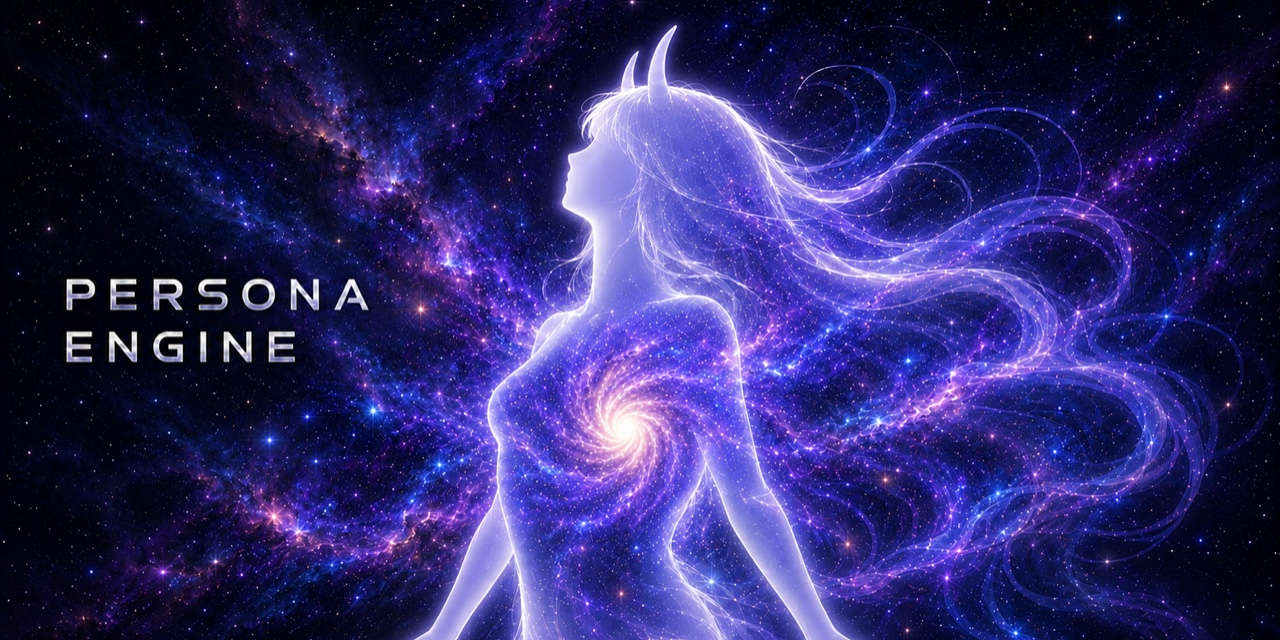
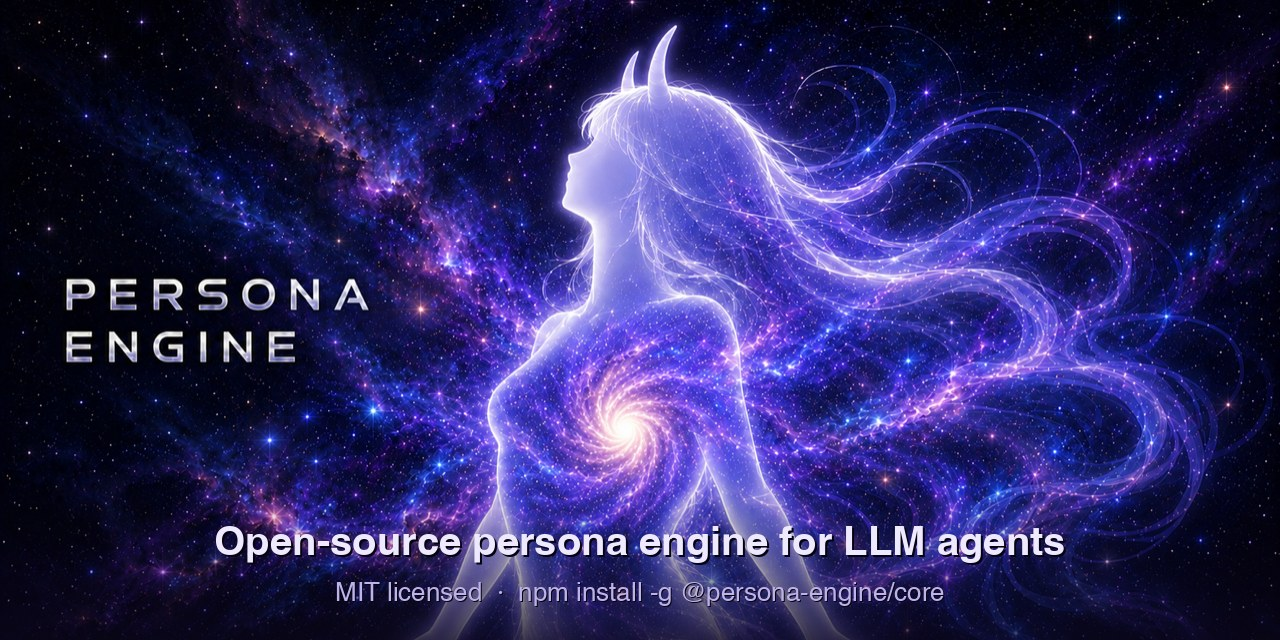
docs: add CLI demo GIF, OSS tagline on social preview, and README polish
- docs/assets/demo.gif: VHS-recorded terminal demo in the brand theme
  (list -> turn resolution -> alias switch -> fail-closed -> audit),
  embedded at the top of Getting started in all four languages
- social-preview.jpg: bake 'Open-source persona engine for LLM agents /
  MIT licensed - npm install' onto the card so link previews read as OSS
  at a glance
- Center the hero image and badge row
- 'Never rewrites the persona' principle promoted to a [!IMPORTANT] alert
- FAQ entries folded into <details> blocks (10 per language)

Changed region(s): [[0.0938, 0.7812, 0.9688, 1.0], [0.0625, 0.9375, 0.0938, 1.0]]

diff --git a/README.md b/README.md
@@ -4,12 +4,13 @@
 
 > English is the canonical version of this document. Translations follow it and may lag slightly behind.
 
-![npm](https://img.shields.io/npm/v/%40persona-engine%2Fcore)
-![CI](https://github.com/caty-ai/persona-engine/actions/workflows/ci.yml/badge.svg)
-![node](https://img.shields.io/badge/node-%3E%3D22-brightgreen)
-![license](https://img.shields.io/badge/license-MIT-blue)
+<div align="center">
 
 ![persona-engine — give your AI agent a face for every moment](docs/assets/hero.jpg)
+
+![npm](https://img.shields.io/npm/v/%40persona-engine%2Fcore) ![CI](https://github.com/caty-ai/persona-engine/actions/workflows/ci.yml/badge.svg) ![node](https://img.shields.io/badge/node-%3E%3D22-brightgreen) ![license](https://img.shields.io/badge/license-MIT-blue)
+
+</div>
 
 persona-engine gives an AI agent a different face for each situation. A reliable-partner face while you work, a close-friend face in casual chat, a character face on stream — **the original personality stays untouched**; only the emotional range and situational reactions are added, safely.
 
@@ -30,7 +31,8 @@ How to add a mode, and the rules for writing vocabulary catalogs, are collected 
 
 ## What we hold most important — the persona is never rewritten
 
-persona-engine is not a tool for building a personality from scratch. It exists to **respect the agent that is already there, and layer emotion on top**.
+> [!IMPORTANT]
+> persona-engine is not a tool for building a personality from scratch. It exists to **respect the agent that is already there, and layer emotion on top**.
 
 - The agent's own persona definition — name, character, default way of speaking — is never touched.
 - A mode adds only a **difference**: how this face reacts when focused, the vocabulary of a casual moment, how much the voice brightens.
@@ -48,6 +50,8 @@ We believe AI can carry expression the way people do. The more an agent becomes 
 But the moment you give an agent this range, new worries appear. What if the casual voice shows up in public? What if nobody can tell who switched it, or when? persona-engine exists to hold both — the range and the safety — at once. The detailed comparison is in [Why persona-engine? (the technical case)](#why-persona-engine-the-technical-case).
 
 ## Getting started
+
+![demo: one agent, four faces — resolving a turn, switching by utterance, fail-closed public mode, and the audit trail](docs/assets/demo.gif)
 
 All you need is [Node.js](https://nodejs.org/) (version 22 or later). Run these four lines in a terminal:
 
@@ -309,35 +313,75 @@ See [SECURITY.md](SECURITY.md) for the threat model and how to report vulnerabil
 
 ## FAQ
 
-**Will it rewrite my agent's original personality?**
+<details>
+<summary><b>Will it rewrite my agent's original personality?</b></summary>
+
 No. The engine only appends per turn; it never touches the agent's own persona definition (system prompt and the like). The intended shape of a mode is a difference — feeling, reactions, vocabulary — not an identity. Drop the mode (fall to `public`) and the agent is completely its plain self again.
 
-**How does the engine handle feeling and tone?**
+</details>
+
+<details>
+<summary><b>How does the engine handle feeling and tone?</b></summary>
+
 It doesn't interpret them. The emotional range and its gradations are made on the pack side — the voice, vocabulary, and example responses you write into sections and catalogs — and the engine's job is to deliver them safely, only to the right situations. `voice_hint` is passed through untouched as a hint to the runtime side (TTS, expression control).
 
-**Does persona-engine call an LLM or need an API key?**
+</details>
+
+<details>
+<summary><b>Does persona-engine call an LLM or need an API key?</b></summary>
+
 No. It compiles and serves persona blocks; your runtime talks to the model. The engine is provider-agnostic by construction.
 
-**What happens in a context I never configured?**
+</details>
+
+<details>
+<summary><b>What happens in a context I never configured?</b></summary>
+
 It matches no route, resolves to the empty `public` mode, and cannot switch. Fail-closed is the default, not an option you enable.
 
-**Can the agent decide to switch its own persona?**
+</details>
+
+<details>
+<summary><b>Can the agent decide to switch its own persona?</b></summary>
+
 Only on routes that declare `switching: explicit-and-agent` **and** `owner_verified: true`, and only among that route's `allowed_modes`. Everywhere else the `persona_set` tool is not even registered.
 
-**Where is state stored? Does it sync between machines?**
+</details>
+
+<details>
+<summary><b>Where is state stored? Does it sync between machines?</b></summary>
+
 In `state/<domain>.json` inside the installation, on the injecting host. Nothing is synchronized; each host resolves independently.
 
-**Can I put secrets in a pack or placeholder?**
+</details>
+
+<details>
+<summary><b>Can I put secrets in a pack or placeholder?</b></summary>
+
 No. Compiled artifacts are plaintext on disk. Treat pack content like any other committed source file.
 
-**How do I add or change a mode?**
+</details>
+
+<details>
+<summary><b>How do I add or change a mode?</b></summary>
+
 Add or edit `pack/modes/<id>.yml` and rerun `persona build`. Budgets, references, and placeholders are validated at build time; runtimes only ever see the compiled result. See the [customizing guide](docs/customizing.md).
 
-**How are token costs controlled?**
+</details>
+
+<details>
+<summary><b>How are token costs controlled?</b></summary>
+
 Each mode has an effective budget — the smaller of the install budget and the mode's own `budget_tokens`. Exceeding it is a build error, so oversized personas are caught before they reach a runtime.
 
-**Which runtimes are supported?**
+</details>
+
+<details>
+<summary><b>Which runtimes are supported?</b></summary>
+
 Claude Code, Hermes, and OpenClaw today. The adapter contract ([SPEC.md](SPEC.md) §10) is small — an adapter derives context, calls the core, and injects one block.
+
+</details>
 
 ## Documentation
 